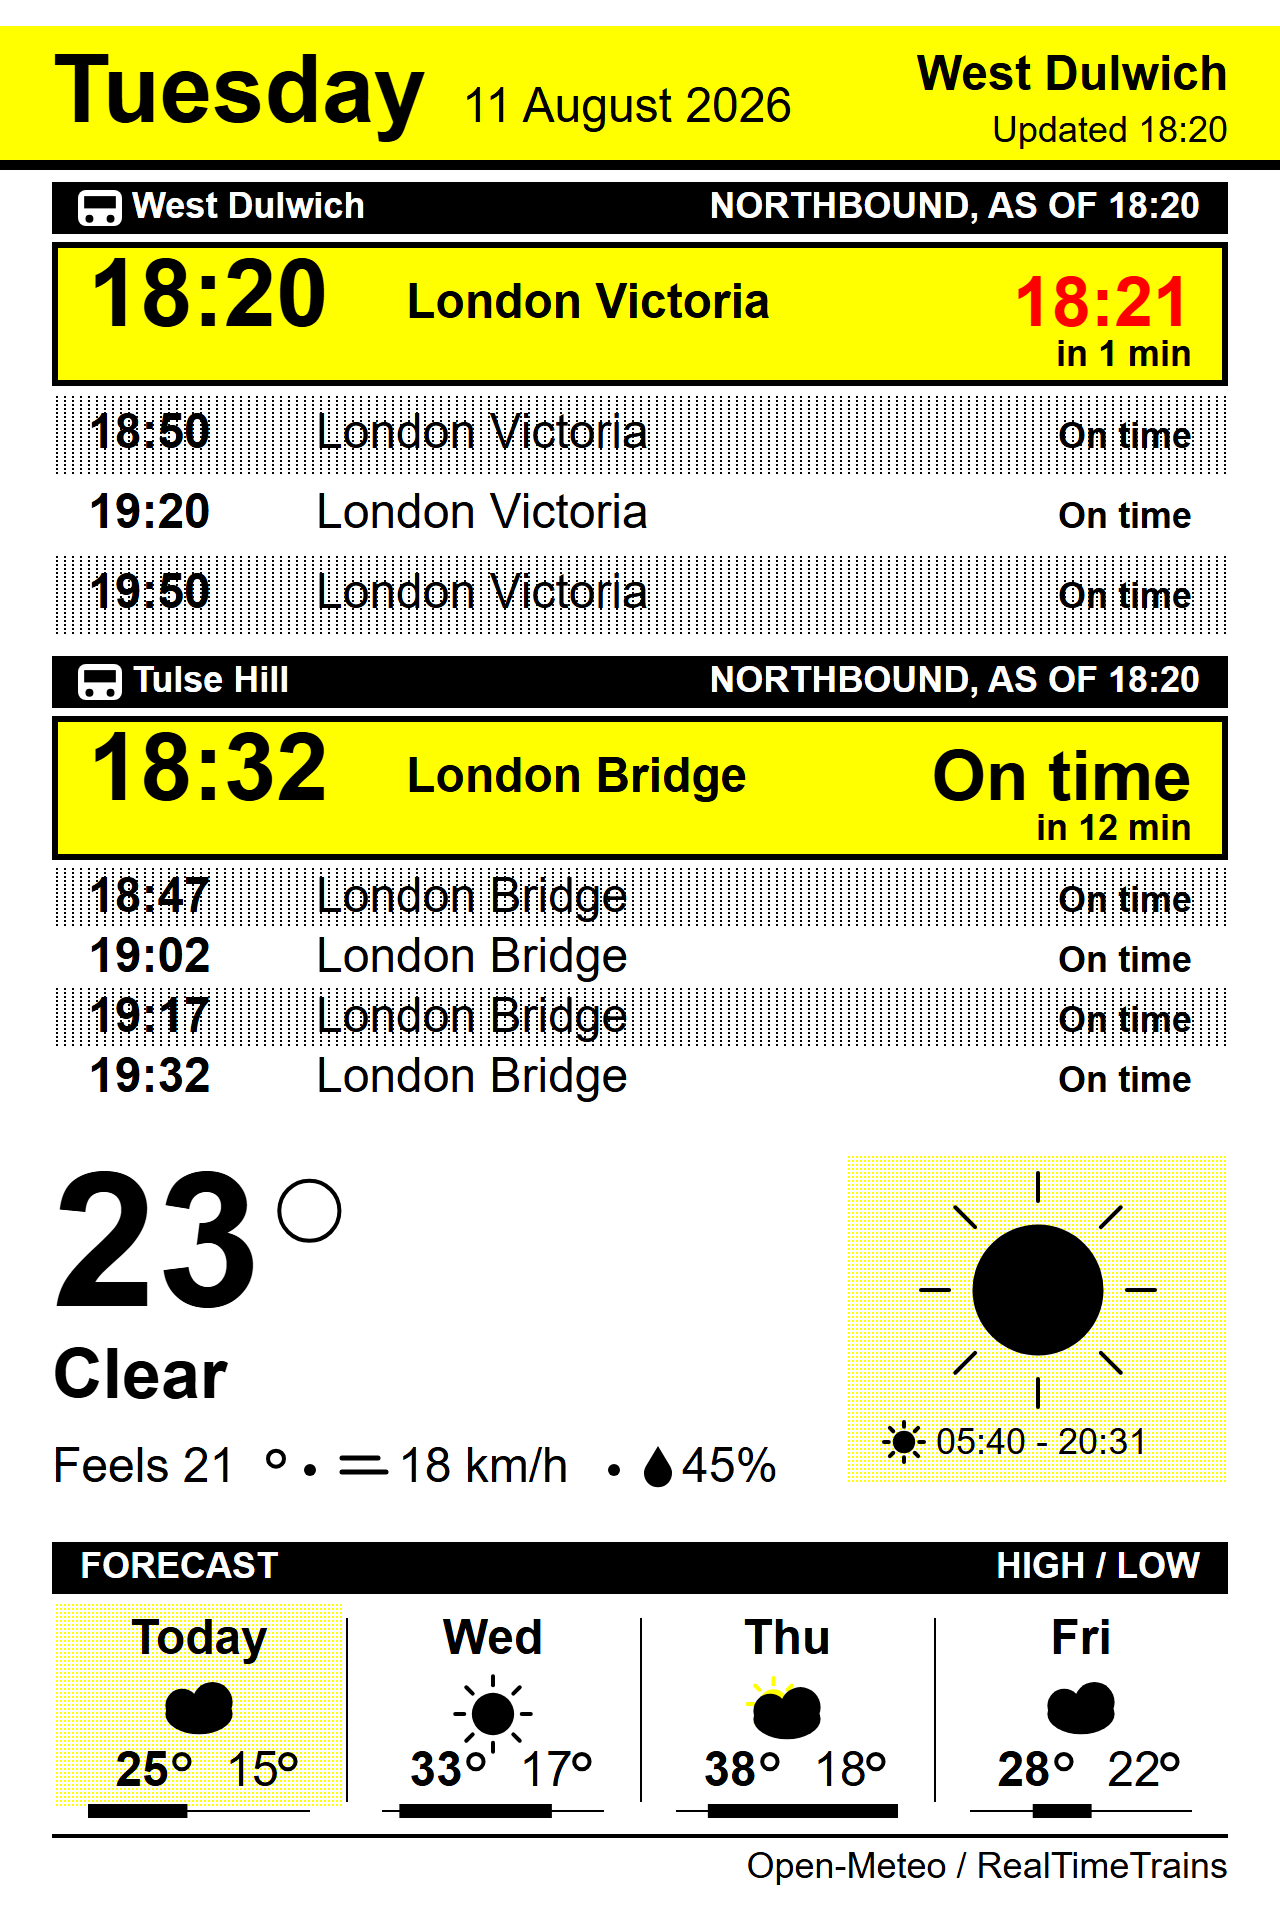
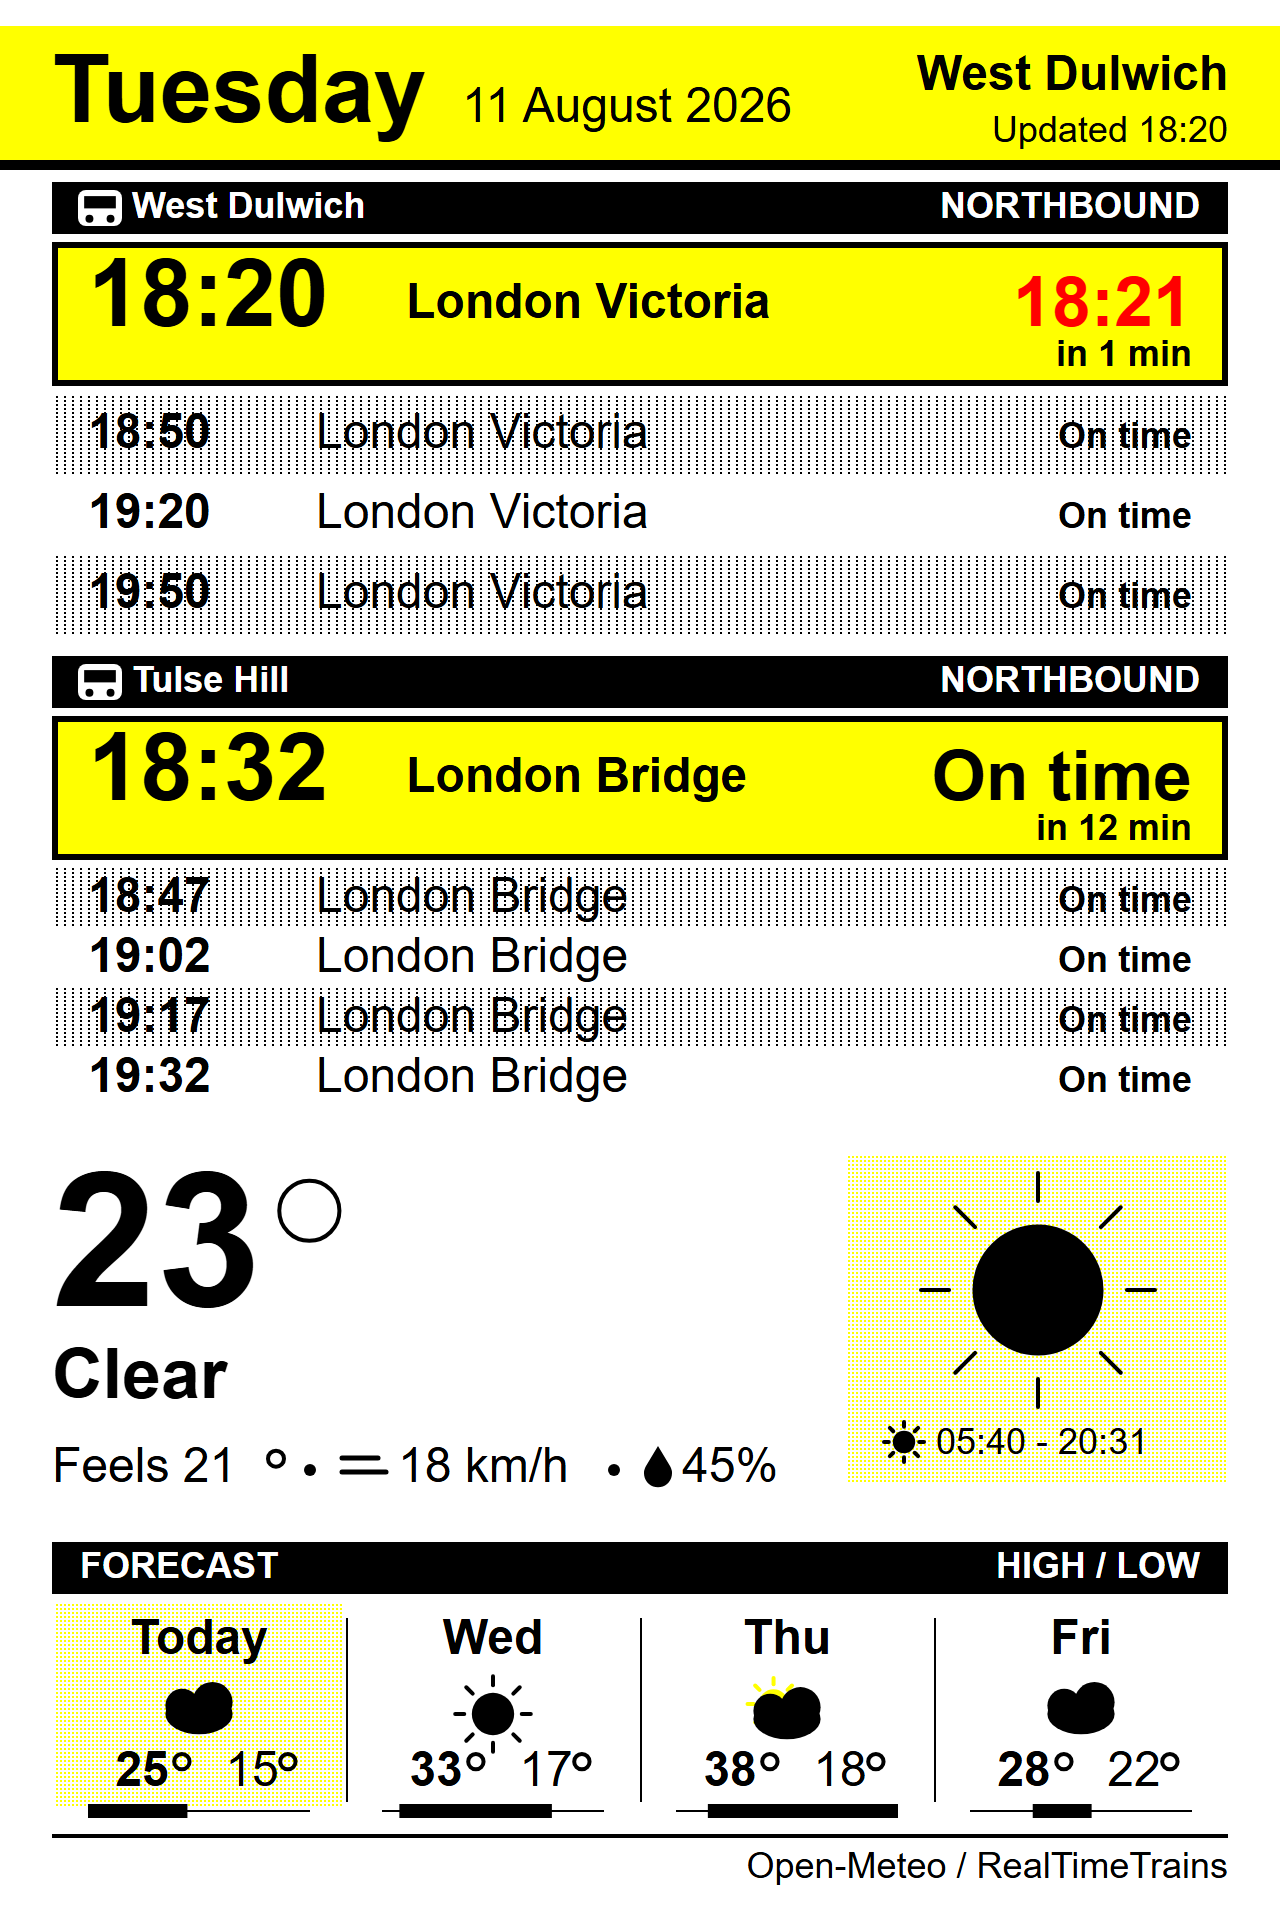
Keep one timestamp on the board, in the masthead
The station bars carried AS OF hh:mm as well, on the reasoning that the
hero's countdown is measured from it. With the masthead now saying the
same thing for the whole board, that put the same minute on screen three
times, which reads as a fault rather than as care.

The name column keeps its measured width rather than going back to the
old magic constant, so a future change to that label cannot silently
start overlapping a long station name.

Claude-Session: https://claude.ai/code/session_016aD6cf53CsbRrZqE4wawt1

Changed region(s): [[0.5625, 0.3438, 0.9375, 0.375], [0.5625, 0.0938, 0.9375, 0.125]]

diff --git a/preview/board-preview.html b/preview/board-preview.html
@@ -84,6 +84,12 @@
         <tr><td><em>margin</em></td><td>947</td><td>13</td></tr>
       </table></div>
 
+      <h2>One timestamp, not three</h2>
+      <p>The station bars briefly carried <code>AS OF hh:mm</code> as well, on the grounds
+         that the hero's countdown is measured from it. But the masthead already says it
+         for the whole board, and the same minute printed three times on one screen reads
+         as a fault rather than as care.</p>
+
       <h2>3mm at the edges</h2>
       <p>The sides always had ~6mm from <code>MARGIN</code>; the top and bottom had none,
          which made the masthead and the footer line look like they ran off the board.
@@ -320,9 +326,7 @@ function departureRow(train, y, rowH, shaded) {
 }
 
 function stationBlock(board, y, h) {
-  const rightLabel = data.lastUpdated
-    ? `NORTHBOUND, AS OF ${data.lastUpdated}` : 'NORTHBOUND';
-  sectionBar(y, board.name, rightLabel, 26);
+  sectionBar(y, board.name, 'NORTHBOUND', 26);
   trainGlyph(MARGIN + 24, y + 13, 22, ink.W, ink.K);
 
   const listY = y + 30, listH = h - 34;

diff --git a/src/render.cpp b/src/render.cpp
@@ -481,33 +481,27 @@ void drawDepartureRow(Adafruit_GFX& g, const Departure& train, int16_t y, int16_
 // block is self-contained because the two stations are separate decisions -
 // which is also why an unavailable one says so in place rather than blanking
 // the whole panel.
-void drawStationBlock(Adafruit_GFX& g, const StationBoard& board, const char* lastUpdated,
-                      int16_t y, int16_t h)
+void drawStationBlock(Adafruit_GFX& g, const StationBoard& board, int16_t y, int16_t h)
 {
-    // The fetch time belongs *here*, next to the departures, not only in the
-    // footer: the hero's countdown is measured from this moment rather than
-    // from now, so without it "in 12 min" is a number with no epoch. It is
-    // repeated per station because each block is meant to be readable on its
-    // own, and because a station whose fetch failed keeps the stale time it
-    // was last good at.
-    char rightLabel[40];
-    if (lastUpdated && lastUpdated[0]) {
-        snprintf(rightLabel, sizeof(rightLabel), "NORTHBOUND, AS OF %s", lastUpdated);
-    } else {
-        snprintf(rightLabel, sizeof(rightLabel), "NORTHBOUND");
-    }
+    // The fetch time is deliberately *not* repeated here. It was, briefly, on
+    // the reasoning that the hero's countdown is measured from it - but the
+    // masthead already carries it for the whole board, and printing the same
+    // minute three times on one screen reads as a fault rather than as care.
+    // One timestamp, at the top, qualifying everything under it.
+    static const char RIGHT_LABEL[] = "NORTHBOUND";
 
-    // The station name gets whatever the right-hand label leaves, measured
-    // rather than guessed at with a constant - the label's width now varies.
+    // The station name gets whatever the right-hand label leaves. Measured
+    // rather than guessed at with a constant, so changing that label can't
+    // silently start overlapping a long station name.
     g.setFont(&FreeSansBold9pt7b);
     g.setTextSize(1);
-    const int16_t rightW = textWidth(g, rightLabel);
+    const int16_t rightW = textWidth(g, RIGHT_LABEL);
 
     char station[48];
     fitText(g, &FreeSansBold9pt7b, board.name[0] ? board.name : "Station",
             CONTENT_W - 78 - rightW - 24, station, sizeof(station));
 
-    drawSectionBar(g, y, station, rightLabel, 26);
+    drawSectionBar(g, y, station, RIGHT_LABEL, 26);
     drawTrainGlyph(g, MARGIN + 24, y + 13, 22, C_WHITE, C_BLACK);
 
     const int16_t listY = y + 30;
@@ -552,8 +546,7 @@ void drawTrains(Adafruit_GFX& g, const BoardData& data)
     const int16_t     blockH = (TRAINS_H - GAP * (MAX_STATIONS + 1)) / MAX_STATIONS;
 
     for (uint8_t i = 0; i < MAX_STATIONS && i < data.stationCount; i++) {
-        drawStationBlock(g, data.stations[i], data.lastUpdated,
-                         TRAINS_Y + GAP + i * (blockH + GAP), blockH);
+        drawStationBlock(g, data.stations[i], TRAINS_Y + GAP + i * (blockH + GAP), blockH);
     }
 }
 

diff --git a/README.md b/README.md
@@ -202,10 +202,10 @@ So the hero row leads with the scheduled time at 24 pt, states the expected stat
 keeps the countdown only as a small subordinate line. It is kept at all because
 subtracting one time from another is a genuine chore at a front door.
 
-Each station bar carries **`AS OF hh:mm`**, the moment its departures were fetched. That's
-the epoch the countdown is measured from, so a reader can correct it rather than trust it,
-and a station whose fetch failed keeps the stale time it was last good at. The masthead
-repeats the same timestamp as `Updated hh:mm` for the board as a whole.
+The masthead carries `Updated hh:mm` — one timestamp, for the whole board, qualifying
+every number on it including the countdown. The station bars briefly repeated it as
+`AS OF hh:mm`; the same minute printed three times on one screen reads as a fault rather
+than as care, so there is exactly one.
 
 `MAX_DEPARTURES` is **per station** (5: one emphasised, four rows) — about as many as a
 120-minute window actually returns for a station like Tulse Hill. West Dulwich is
